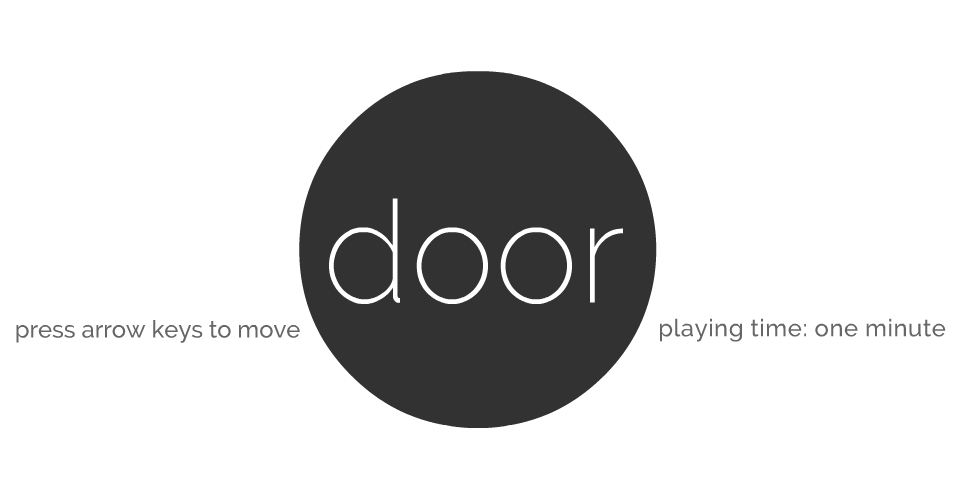
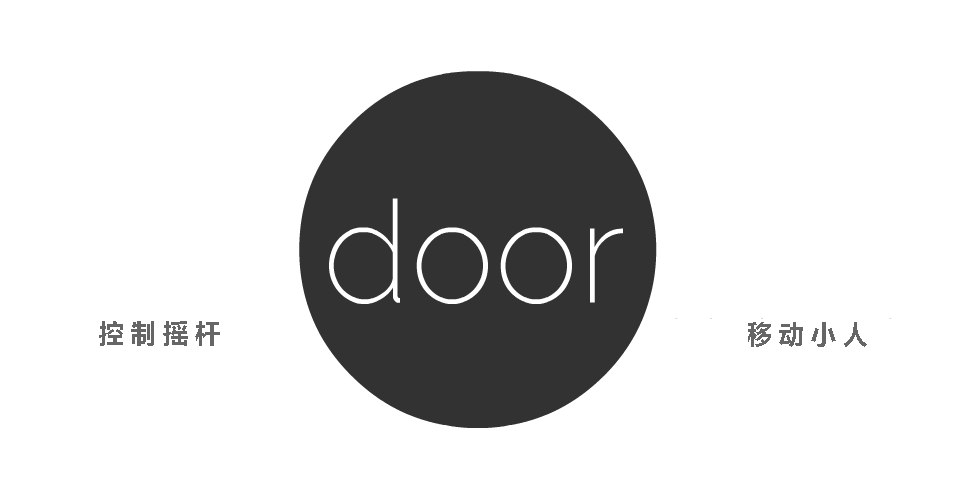
c

Changed region(s): [[0.6875, 0.63, 1.0, 0.69], [0.0, 0.63, 0.3125, 0.69]]

diff --git a/index.html b/index.html
@@ -124,7 +124,7 @@
 				<br>
 
 				<span style="font-size:30px">
-					thanks for playing! &lt;3
+					thanks for playing! &lt;
 				</span>
 
 			</div>
@@ -157,7 +157,7 @@
 	var joystickL = nipplejs.create({
 		zone: document.getElementById('boddy'),
 		mode: 'static',
-		position: { left: '50%', bottom: '30%' },
+		position: { left: '50%', bottom: '25%' },
 		color: 'gray',
 		size: 200
 	});

diff --git a/js/game.js b/js/game.js
@@ -837,7 +837,7 @@ yourLink.onclick = function () {
 function socialShare(event, type) {
 
 	var link = yourLink.value;
-	var title = "it's a(door)able";
+	var title = "秘密门";
 	var url = "";
 	var width = 640;
 	var height = 480;
